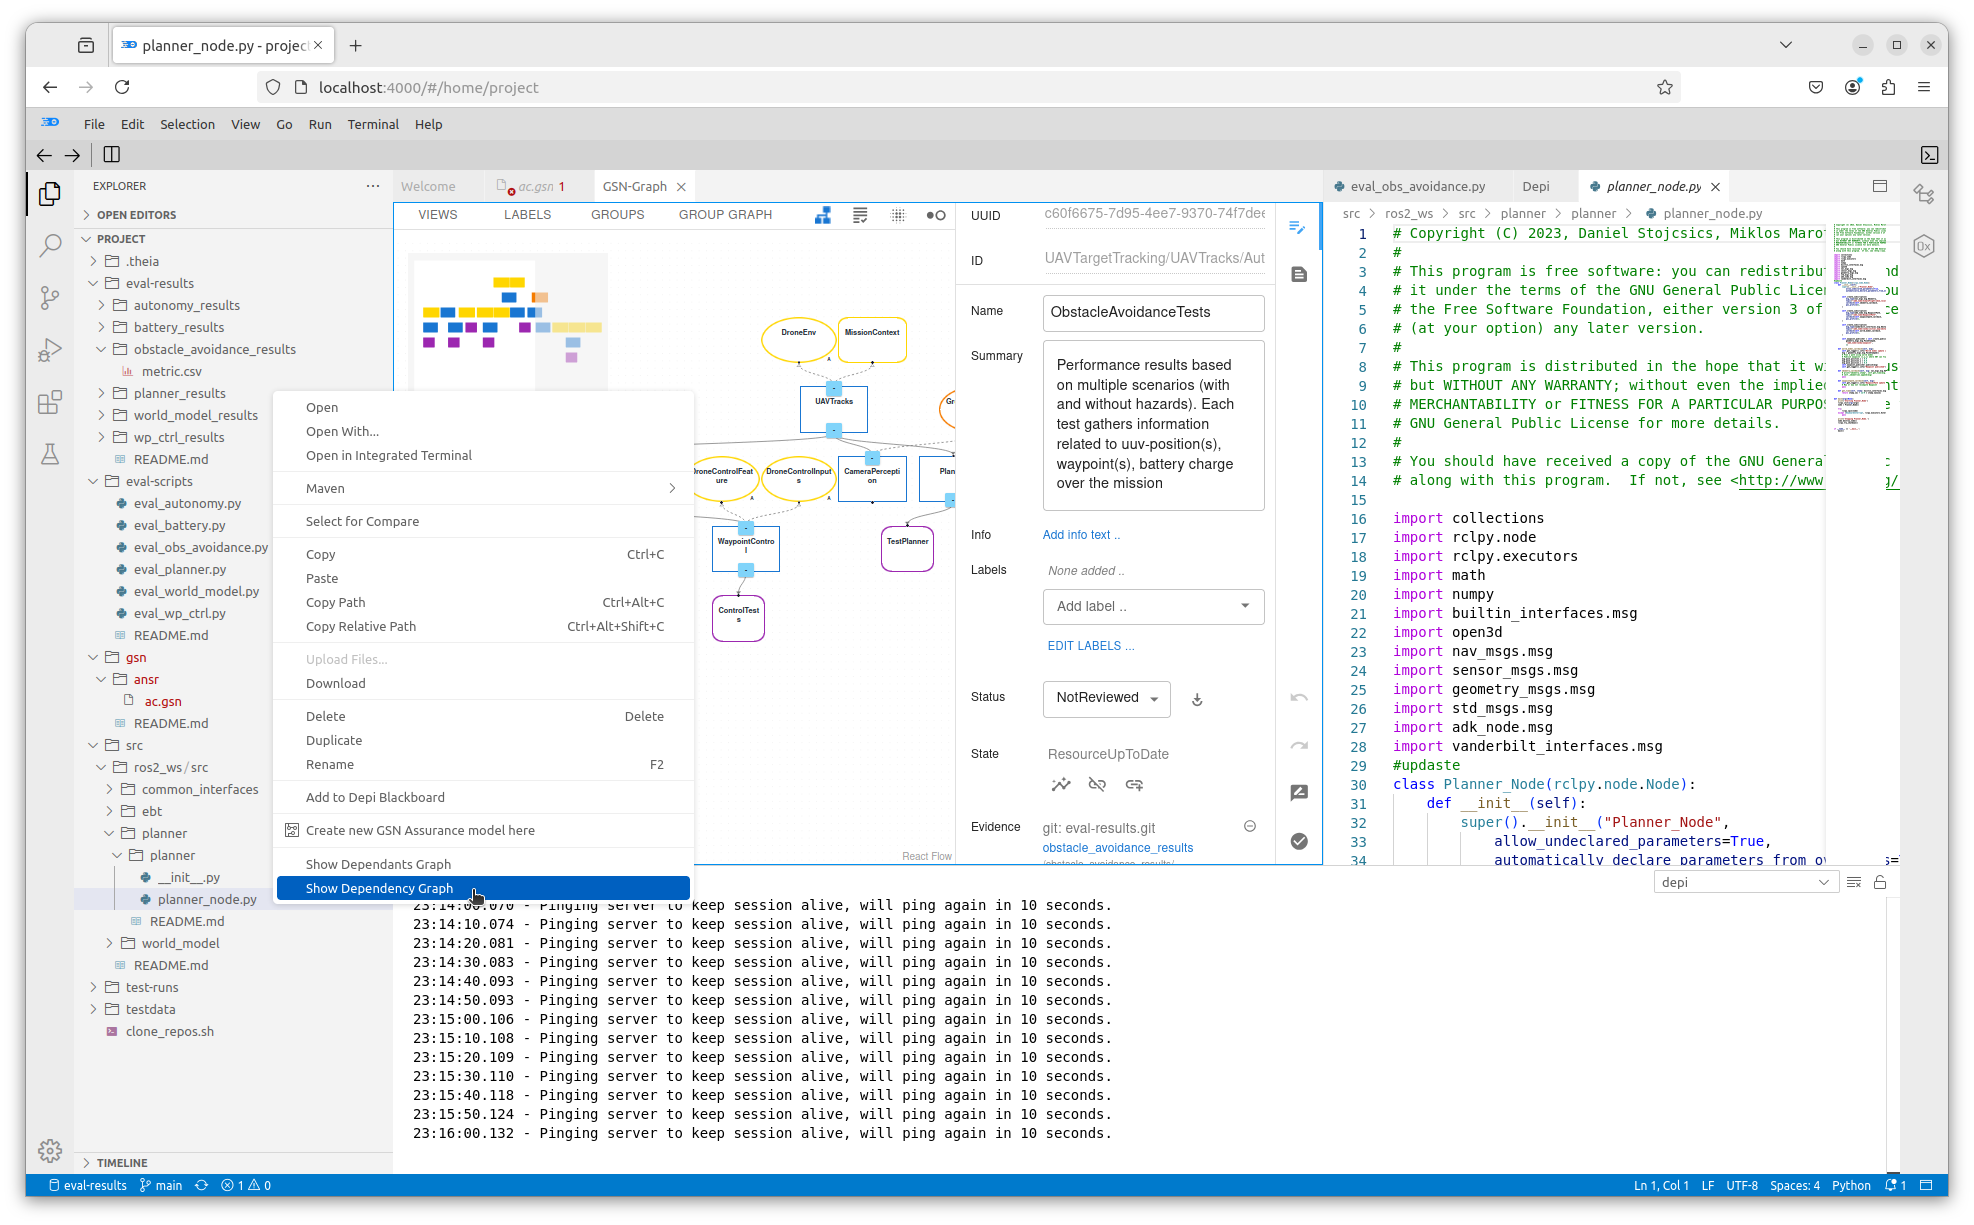
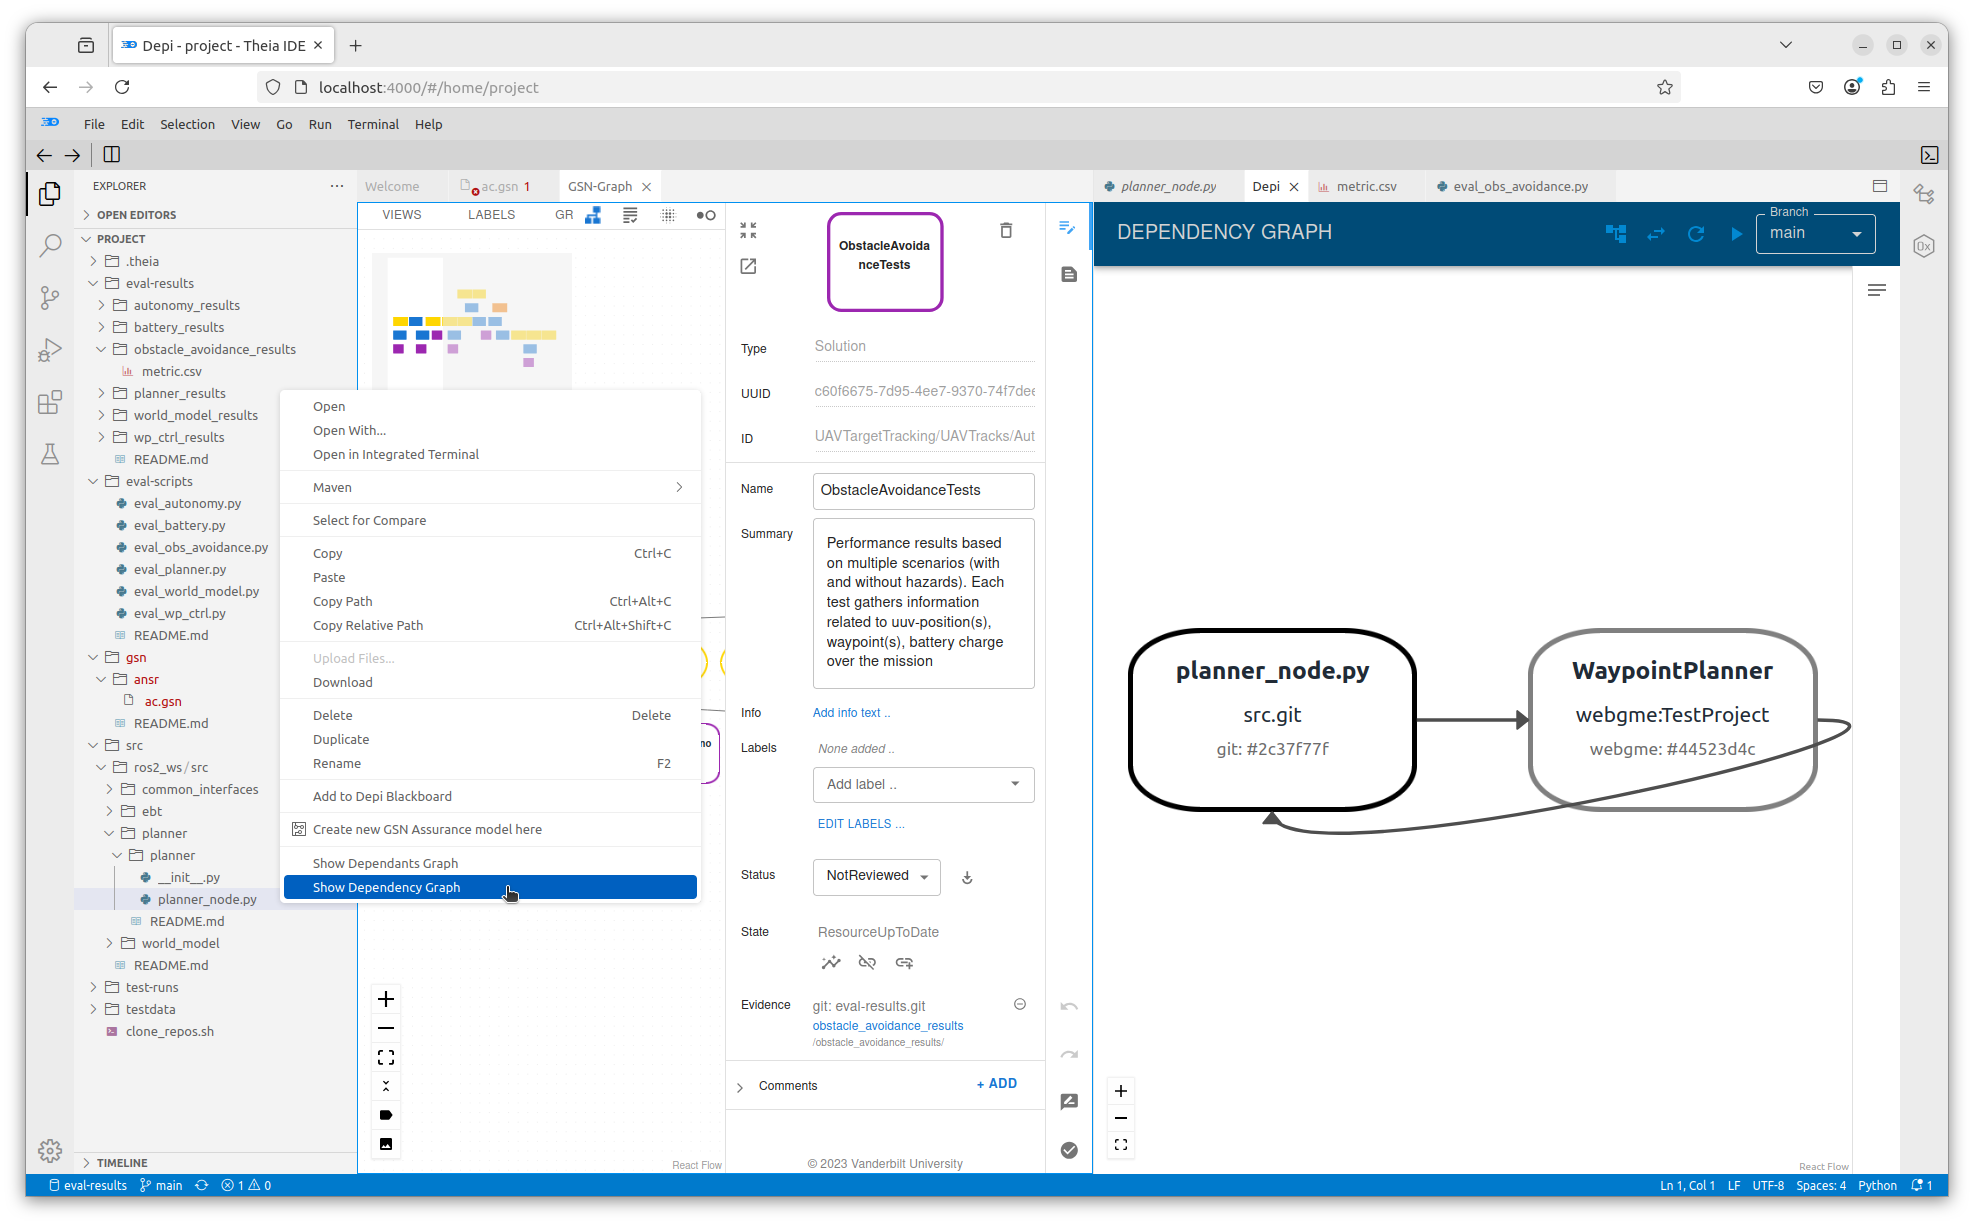
Completion of tutorial image updates

diff --git a/Tutorial/Tutorial.md b/Tutorial/Tutorial.md
@@ -738,6 +738,7 @@ contains the code it generates needs to be updated so that they remain in synchr
 As well, if a file is updated (independently, i.e. not due to a change in the WebGME model), the corresponding
 component in the WebGME model should be updated.
 
+
 We can view the dependency graph a particular component/file pair by expanding the `src` repository in the
 `Explorer` pane until we can see one of the source files.  For this tutorial, we will use `planner_node.py`.
 
@@ -745,14 +746,18 @@ We can view the dependency graph a particular component/file pair by expanding t
 > ![CAID Explorer Button](Images/Button_CAIDExplorerButton.png "CAID Explorer Button")
 > near the top left corner of the browser window to view the `Explorer` pane.
 
-Click on this file using the secondary mouse button, and in the resulting pop-up menu, select
-`Show Dependency Graph`
+Clicking on `planner_node.py` with the primary mouse button will show its contents in the `Editor`, as shown below:
+
+![CAID Planner Node Py Contents](Images/60_5-CAIDPlannerNodePyContents.png "CAID Planner Node Py Contents")
+
+To display the dependency graph of `planner_node.py`, click on it with the _secondary_ mouse button, and in the
+resulting pop-up menu, select `Show Dependency Graph`:
 
 ![CAID Planner Node Dependency Graph Selection](Images/61-CAIDPlannerNodeDependencyGraphSelection.png "CAID Planner Node Dependency Graph Selection")
 
 The dependency graph will appear in the right sub-pane of the `Editor` pane.  To launch WebGME and view the
 `WaypointPlanner` component of the WebGME model:
-* Click on the `WebpointPlanner` node in the dependency graph (it will turn blue to indicate that it is selected)
+* Click on the `WaypointPlanner` node in the dependency graph (it will turn blue to indicate that it is selected)
 * Click on the `Dependency Info` button
   ![CAID Dependency Info Button](Images/Button_CAIDDependencyInfoButton.png "CAID Dependency Info Button")
   at the upper right of the dependency graph
